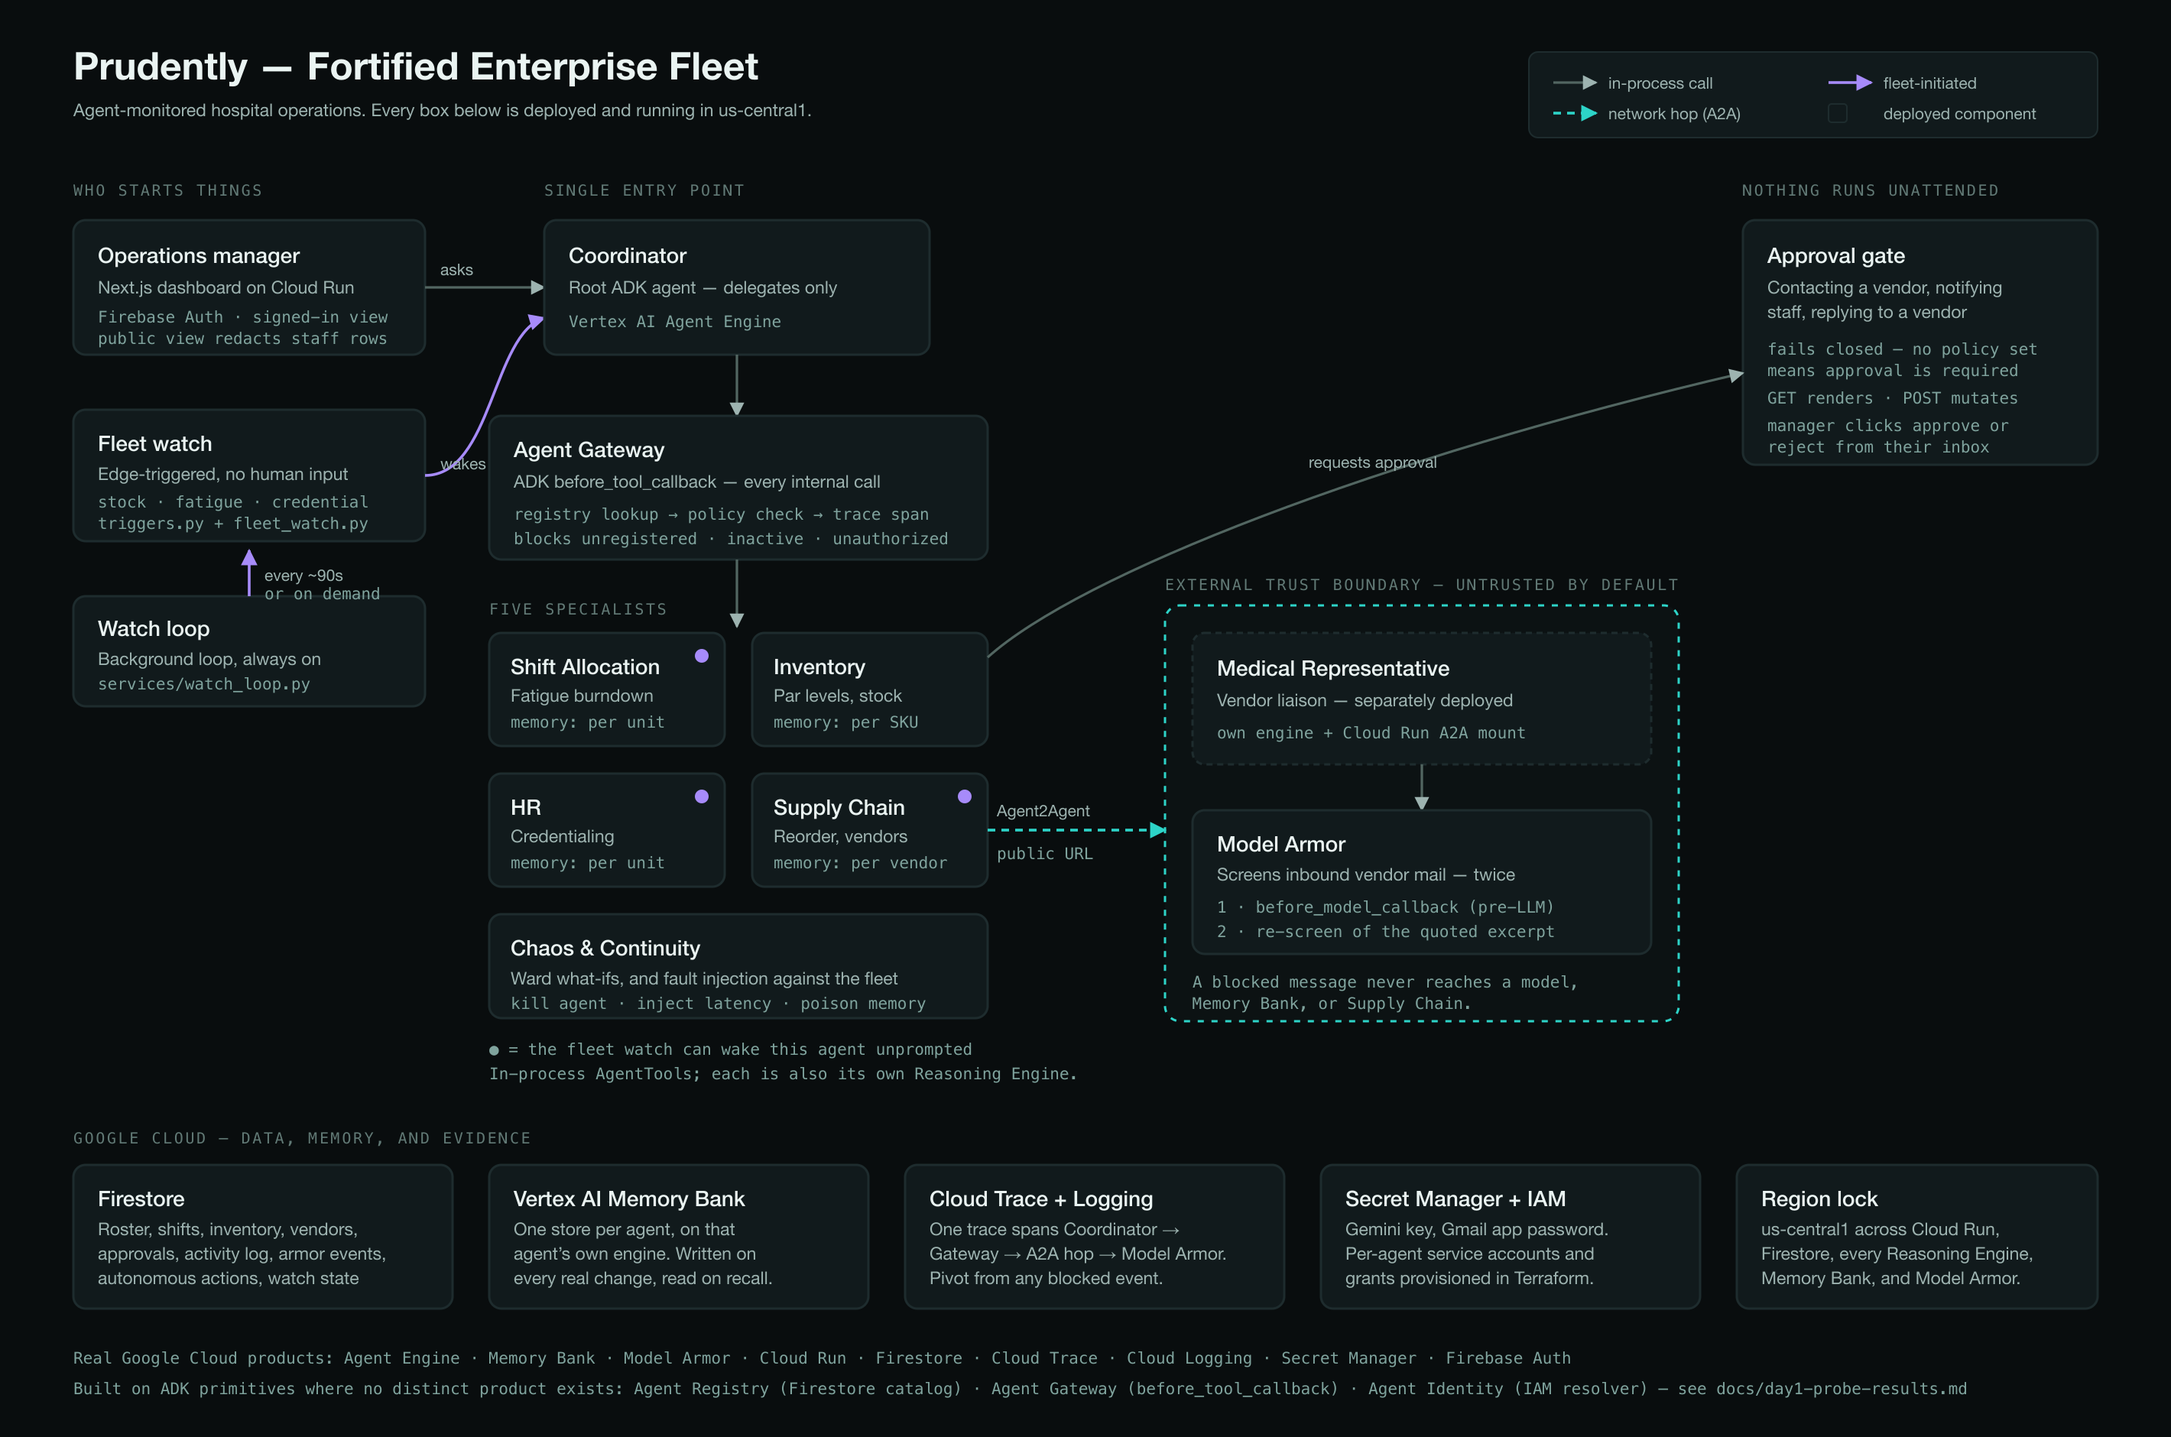
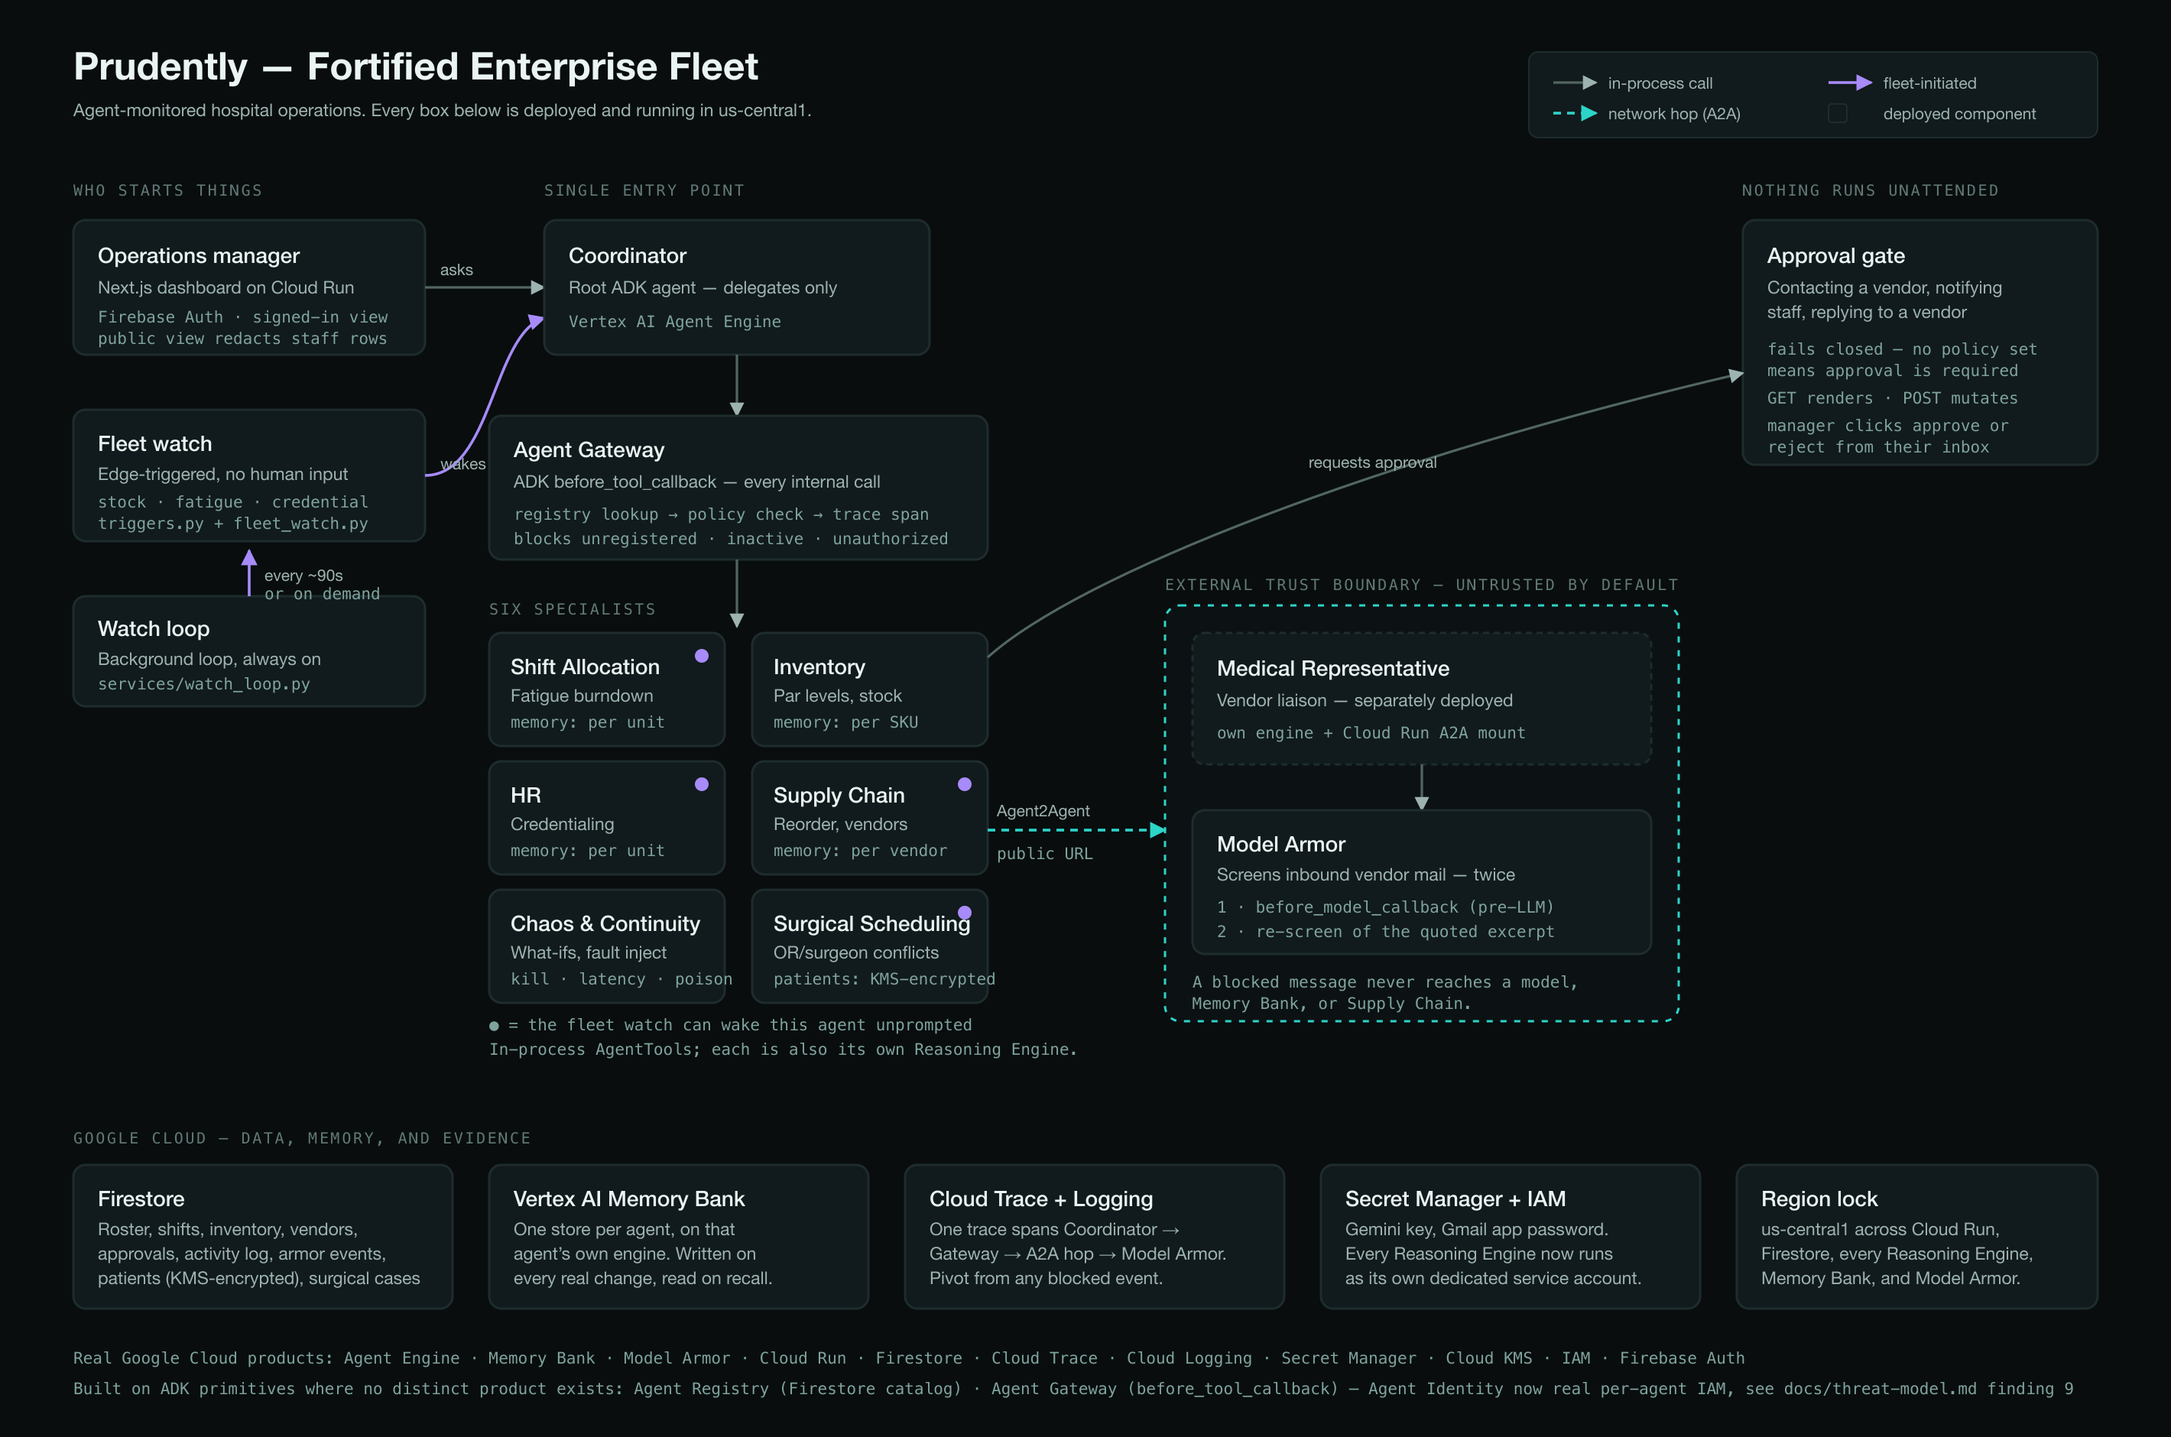
Bring the docs up to date with the eighth agent and the real identity fix
The README, the architecture diagram, and the other project docs still
described an earlier agent count and said that per-agent identity
"resolves metadata and enforces nothing." Both were true when written
and wrong now: Surgical Scheduling is a sixth in-process specialist
behind the Coordinator, and every deployed Reasoning Engine runs under
its own dedicated service account as of the identity fix, not a shared
one.

The architecture diagram gets a sixth specialist card, a corrected
Secret Manager + IAM card, and disclosure lines that move Agent
Identity out of the "built on ADK primitives, no real product behind
it" bucket into the real one — mirrored in the copy the dashboard
serves. The architecture doc's prose and "what runs where" table
follow, plus pointers to the two new security/deployment diagrams.

The README's setup steps gained the one manual step now required
(assigning a Firebase role via a setup script), the newly required
API-enable entries, the separate patient/surgical-case data step, and
a rewritten "Known limits" section — the false "identity enforces
nothing" line is gone, replaced with what's actually still true:
Firestore has no per-collection IAM, and Coordinator's in-process
bundling means its own service account necessarily carries the union
of every specialist's grants.

diff --git a/README.md b/README.md
@@ -4,19 +4,30 @@
 [All Things Agentic Hackathon](https://allthingsagentichackathon.devpost.com/),
 Fortified Enterprise Fleet track.
 
-Seven agents run a hospital's staffing, supplies, and vendor relationships. A Coordinator
-routes every internal call through an Agent Gateway to five specialists; a sixth agent sits on
-the far side of a real trust boundary and is reached over genuine Agent2Agent. The fleet does
-not wait to be asked — a real-time watch runs continuously, comparing the ward to how it left
-it, and wakes the responsible agent the moment something crosses a line. Anything with a
-real-world consequence still comes back to a human for approval.
+Eight agents run a hospital's staffing, supplies, vendor relationships, and surgical schedule.
+A Coordinator routes every internal call through an Agent Gateway to six specialists; a seventh
+agent sits on the far side of a real trust boundary and is reached over genuine Agent2Agent. The
+fleet does not wait to be asked — a real-time watch runs continuously, comparing the ward to how
+it left it, and wakes the responsible agent the moment something crosses a line. Anything with a
+real-world consequence still comes back to a human for approval. The one domain here with
+real-PII-shaped data — a patient's name, date of birth, contact details — is encrypted
+field-by-field with Cloud KMS before it ever reaches Firestore, gated behind role-based access
+control, and backed by a real, cited threat model that maps every finding to the fix that closed
+it (`docs/threat-model.md`).
 
 **Live:**
 [dashboard](https://prudently-web-jnpvbtwpwa-uc.a.run.app) ·
 [API](https://prudently-api-jnpvbtwpwa-uc.a.run.app/dashboard/overview)
 
 **Architecture:** [`docs/architecture.md`](docs/architecture.md) ·
-[diagram](docs/architecture.svg)
+[topology](docs/architecture.svg) ·
+[security](docs/security-architecture.png) ·
+[deployment](docs/deployment-architecture.png)
+
+**Security:** [`docs/threat-model.md`](docs/threat-model.md) — ten STRIDE findings, each with
+file:line evidence, each fixed or honestly mitigated. Includes the story behind Agent Identity:
+a documented "platform limitation" that turned out to be a wrong assumption about the `adk`
+CLI, not the underlying API.
 
 ---
 
@@ -24,22 +35,23 @@ real-world consequence still comes back to a human for approval.
 
 | | |
 |---|---|
-| **Acts unprompted** | A fleet watch fires on state *transitions* — a SKU crossing its par level, a unit gaining another critically fatigued nurse — and opens a real agent turn about it. Nobody typed anything. See the Autonomous activity page. |
+| **Acts unprompted** | A fleet watch fires on state *transitions* — a SKU crossing its par level, a unit gaining another critically fatigued nurse, an OR double-booking — and opens a real agent turn about it. Nobody typed anything. See the Autonomous activity page. |
 | **Remembers over time** | Each agent has its own Vertex AI Memory Bank store on its own Reasoning Engine, scoped per unit or per SKU. Facts are written whenever the fleet watch observes a real change and read back by the agent's own recall tool — ask Shift whether ICU fatigue has been building and it cites when it started. |
 | **Catalogs its own fleet** | The Agent Gateway looks every target up in a Firestore registry on every call, and blocks unregistered, inactive, or unauthorized ones before the tool body runs. |
 | **Screens untrusted input** | Model Armor screens inbound vendor mail in a `before_model_callback`, so a blocked message never reaches a model at all — then re-screens the excerpt the model extracts. |
-| **Never acts unsupervised** | Contacting a vendor, notifying staff, and replying to a vendor are all approval-gated, configurable per action, fail-closed. Approve links render on `GET` and mutate on `POST`. |
+| **Never acts unsupervised** | Contacting a vendor, notifying staff, notifying a patient, and replying to a vendor are all approval-gated, configurable per action, fail-closed. Approve links render on `GET` and mutate on `POST`, and expire after 14 days. |
+| **Protects what it holds** | Patient name/DOB/contact fields are encrypted with Cloud KMS before every Firestore write, decrypted only for `admin`/`clinician`-role callers, and every deployed agent now runs under its own dedicated identity — not a shared one. |
 | **Proves what happened** | One Cloud Trace spans Coordinator → Gateway → the A2A hop → Model Armor. Any blocked event in Firestore pivots straight to it. |
 
 ## Repo layout
 
-- `apps/api` — FastAPI + ADK backend: the 7 agents, the platform capability adapters
-  (Registry / Identity / Gateway / Model Armor / Observability), the fleet watch, and every
-  dashboard route
+- `apps/api` — FastAPI + ADK backend: the 8 agents, the platform capability adapters
+  (Registry / Identity / Gateway / Model Armor / Observability / Crypto), the fleet watch, and
+  every dashboard route
 - `apps/web` — Next.js dashboard
 - `packages/datagen` — synthetic hospital data generator plus one-off backfill scripts
-- `infra/terraform` — GCP infrastructure as code (IAM, secrets, Cloud Run service shells)
-- `docs` — architecture, build plan and demo script, Day-1 capability probe results
+- `infra/terraform` — GCP infrastructure as code (IAM, secrets, KMS, Cloud Run service shells)
+- `docs` — architecture, threat model, build plan and demo script, Day-1 capability probe results
 
 ---
 
@@ -56,16 +68,17 @@ cp .env.example .env      # then edit — see step 1
 
 ### 1. One-time manual setup
 
-Four things cannot be provisioned from Terraform and have to be done once by hand. **Skipping
+Five things cannot be provisioned from Terraform and have to be done once by hand. **Skipping
 any of them leaves the app running but visibly broken**, so they are listed with the symptom
 you get if you miss one.
 
 | Step | How | If you skip it |
 |---|---|---|
-| **Enable APIs** | `gcloud services enable aiplatform.googleapis.com firestore.googleapis.com run.googleapis.com secretmanager.googleapis.com cloudtrace.googleapis.com logging.googleapis.com modelarmor.googleapis.com pubsub.googleapis.com` | Deploys fail at the first API call |
+| **Enable APIs** | `gcloud services enable aiplatform.googleapis.com firestore.googleapis.com run.googleapis.com secretmanager.googleapis.com cloudtrace.googleapis.com logging.googleapis.com modelarmor.googleapis.com pubsub.googleapis.com cloudkms.googleapis.com identitytoolkit.googleapis.com` | Deploys fail at the first API call; `identitytoolkit` specifically breaks session revocation checking with a silently-swallowed 401 on every authenticated route — see `docs/threat-model.md` finding 5 |
 | **Gemini API key** | `gcloud secrets create prudently-gemini-api-key --data-file=-` (paste the key, Ctrl-D) | Every agent fails on its first model call |
 | **Model Armor template** | Create a template named `prudently-vendor-ingest` in `us-central1` with the `pi_and_jailbreak`, `malicious_uri`, and `rai` filters. **Use the REST API or the Python SDK, not `gcloud model-armor`** — that subcommand returns spurious `PERMISSION_DENIED` even under project Owner. | Screening fails closed; every vendor message is reported blocked |
 | **Firebase Auth** | In the Firebase Console, attach a Firebase project to this GCP project, enable the Email/Password provider, and create one manager account. Put the web config in `apps/web/.env.local`. | The dashboard shows a login form nobody can get past |
+| **Assign a role** | `cd apps/api && uv run python -m scripts.set_user_role <email> admin` (also accepts `clinician`, `ops`) | `require_role`-gated routes — patient identity, surgical case status/notify — 403 for every account, including your own |
 
 Gmail approvals are optional. To enable them, turn on 2-Step Verification for the sending
 account, create an app password, store it as `prudently-gmail-app-password`, and set
@@ -75,24 +88,43 @@ without sending mail — approvals are still created and still resolvable from t
 ### 2. Infrastructure and data
 
 ```bash
-make tf-apply         # IAM, secrets, Cloud Run service shells. Firestore's location is
-                      # immutable — us-central1 is a one-way door.
+make tf-apply         # IAM (including per-agent service accounts and the firebaseauth.viewer
+                      # grant check_revoked needs), secrets, Cloud KMS key ring, Cloud Run
+                      # service shells. Firestore's location is immutable — us-central1 is a
+                      # one-way door.
 make seed             # synthetic roster, shift history, inventory, vendors, admissions
 make seed-registry    # REQUIRED — the Gateway blocks every call until the registry exists
-make seed-policy      # approval policy defaults
+make seed-policy      # approval policy defaults, including notify_patient_of_status_change
 ```
 
 `make seed-registry` is not optional. Without it, the Agent Gateway's registry lookup returns
 nothing and refuses every specialist call as `blocked_unregistered`, which looks like a broken
 Coordinator rather than a missing seed.
 
+Patients and surgical cases are seeded separately, additively, from `packages/datagen` — not
+part of `make seed`, so re-running the main seed never overwrites accumulated fleet-watch state:
+
+```bash
+cd packages/datagen
+SIM_SEED=42 GOOGLE_CLOUD_PROJECT=$GOOGLE_CLOUD_PROJECT uv run python -m datagen.backfill_patients
+```
+
+Patient PII fields are encrypted through the real Cloud KMS key before this script ever writes
+to Firestore — a raw console read of the `patients` collection should show ciphertext, never a
+name.
+
 ### 3. Deploy the agents
 
-Each agent is its own Reasoning Engine. Run these from `apps/api/`:
+Each agent is its own Reasoning Engine, and each runs under its own dedicated service account —
+not a shared one. That identity comes from a `.agent_engine_config.json` file already committed
+in each agent's folder (`{"service_account": "<agent>-agent-sa@$GOOGLE_CLOUD_PROJECT.iam.gserviceaccount.com"}`);
+`adk deploy`'s CLI has no `--service_account` flag, but it reads this file automatically and
+merges it into the same config the flag would have set, so no extra step is needed beyond
+`make tf-apply` having already created the SAs. Run these from `apps/api/`:
 
 ```bash
 cd apps/api
-for a in shift inventory supply hr chaos medrep; do
+for a in shift inventory supply hr chaos medrep surgical_scheduling; do
   adk deploy agent_engine agents/$a \
     --project=$GOOGLE_CLOUD_PROJECT --region=us-central1 \
     --display_name="$a" --otel_to_cloud \
@@ -110,10 +142,13 @@ adk deploy agent_engine agents/coordinator \
   --extra_packages=services --extra_packages=config.py \
   --extra_packages=agents/chaos --extra_packages=agents/hr \
   --extra_packages=agents/inventory --extra_packages=agents/shift \
-  --extra_packages=agents/supply
+  --extra_packages=agents/supply --extra_packages=agents/surgical_scheduling
 ```
 
-Put each resulting engine ID into `.env`. Then deploy the two Cloud Run services:
+Put each resulting engine ID into `.env`, then confirm every engine actually runs as its own
+identity rather than the platform default (`client.agent_engines.get(...).api_resource.spec
+.effective_identity` should read `<agent>-agent-sa@...`, not `service-<project-number>@gcp-sa
+-aiplatform-re.iam.gserviceaccount.com`). Then deploy the two Cloud Run services:
 
 ```bash
 make deploy
@@ -170,14 +205,24 @@ fallbacks for the things that have actually gone wrong on camera.
 Honest ones, because they are the interesting part:
 
 - **The specialists are not decoupled from the Coordinator.** They are in-process `AgentTool`s
-  whose source is copied into the Coordinator's image at deploy time. Seven Reasoning Engines
-  exist, but the Coordinator path runs one process carrying five frozen copies.
-- **Agent Identity does not enforce anything.** Every deployed agent runs as the same shared
-  Reasoning Engine service agent; the per-agent service accounts are for local dev. Access
-  control lives in the Gateway's policy table, not in identity.
-- **Registry, Gateway, and Identity are built on ADK primitives**, not distinct Google Cloud
-  products — because the Day-1 probe found no such products.
-  [`docs/day1-probe-results.md`](docs/day1-probe-results.md) records what was checked and how.
+  whose source is copied into the Coordinator's image at deploy time. Eight Reasoning Engines
+  exist, but the Coordinator path runs one process carrying six frozen copies — which means
+  `coordinator-agent-sa` necessarily has the union of every specialist's grants, including Cloud
+  KMS decrypt. This is an inherent consequence of in-process bundling, not something a different
+  IAM setup could fix without re-architecting how Coordinator invokes specialists.
+- **Firestore has no native per-collection IAM.** Every per-agent service account holds
+  project-wide `roles/datastore.user` — identity separation is real (independent audit trail,
+  independent revocation, independent rotation per agent), but it is not per-collection least
+  privilege by itself. `services/platform/access_control.py`'s application-layer allowlist is
+  the actual mechanism restricting which agents may touch `patients`/`surgical_cases`, now
+  backed by a real distinct credential per caller instead of a self-declared one on shared IAM.
+- **Registry and Gateway are built on ADK primitives**, not distinct Google Cloud products —
+  because the Day-1 probe found no such products. Agent Identity used to be on this list too;
+  it isn't anymore — see `docs/threat-model.md` finding 9 for exactly what changed and how it
+  was verified. [`docs/day1-probe-results.md`](docs/day1-probe-results.md) records the original
+  Day-1 findings.
 - **The autonomous watch runs agents in-process**, not through the Agent Engine transport. That
   is deliberate: `stream_query` against a deployed engine reset mid-stream on 3 of 4 attempts
-  from a laptop, and the manager-initiated path already exercises that transport.
+  from a laptop, and the manager-initiated path already exercises that transport. The deployed
+  Reasoning Engines are independently real and independently verified (`make verify-deploys
+  ARGS="--query"`), just not what serves the live autonomous demo behavior.
